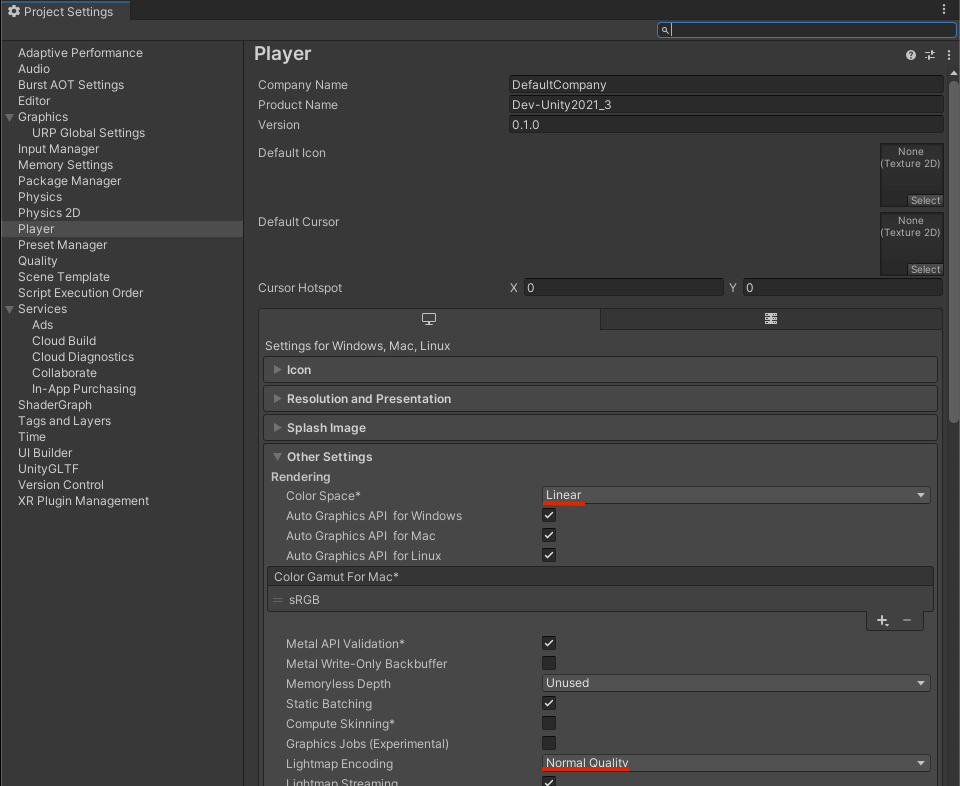
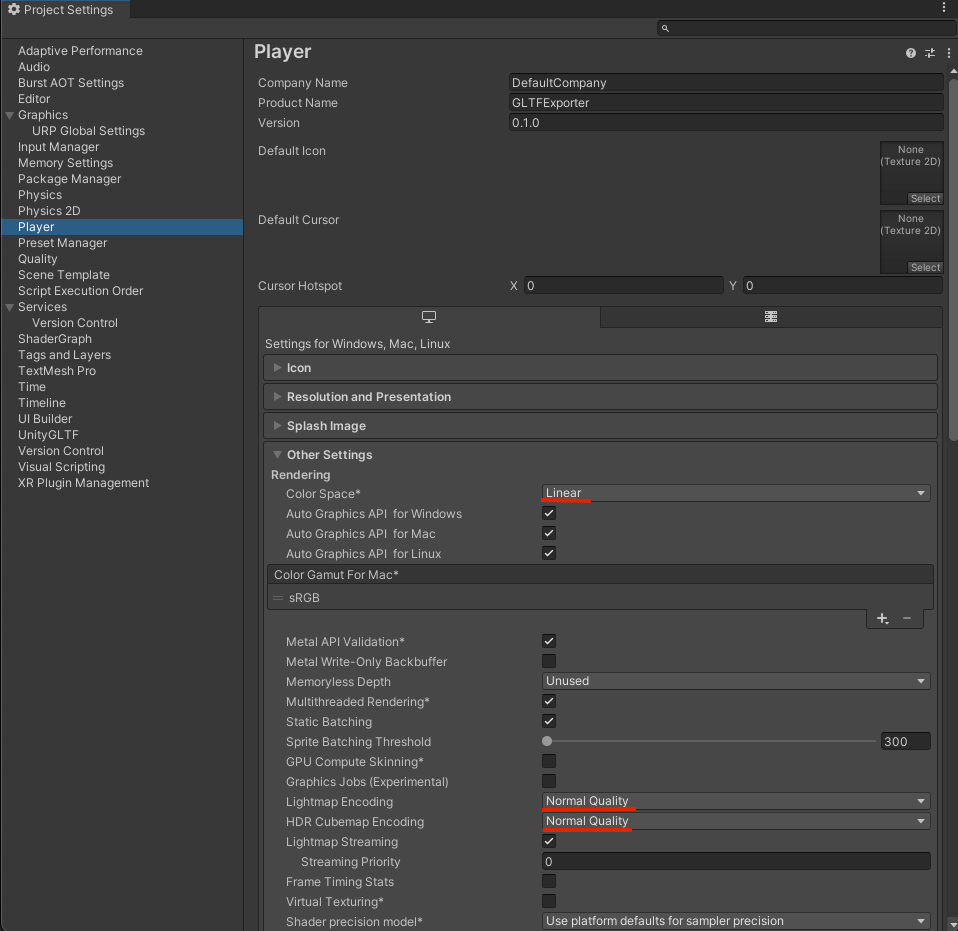
Update docs for Unity 2022

diff --git a/Packages/thirdroom-unity-exporter/README.md b/Packages/thirdroom-unity-exporter/README.md
@@ -6,7 +6,16 @@ Export Third Room scenes from Unity. Powered by [UnityGLTF](https://github.com/p
 
 First you'll need a copy of Unity which can be downloaded [here](https://unity.com/download).
 
-Internally we use Unity 2021.3.17f1 (LTS), Unity versions 2020.3+ should be supported, but we can't make any promises. 2021.3+ would be preferred.
+### Versions
+- **Recommended:** 2022.1.13f1 ([Unity Hub Link](unityhub://2022.1.13f1/22856944e6d2))
+- Supported: 2021.3+
+- Unsupported but potentially compatible: 2020.3+
+
+Unity 2021 does not have support for HDR Cubemaps which we use for reflection probes. If you'd like support for them, use Unity 2022.
+
+### Installation
+
+We recommend first starting with creating a brand new project in Unity Hub.
 
 You should use the Universal Render Pipeline (URP) to maximize compatibility with UnityGLTF.
 

diff --git a/README.md b/README.md
@@ -6,7 +6,16 @@ Export Third Room scenes from Unity. Powered by [UnityGLTF](https://github.com/p
 
 First you'll need a copy of Unity which can be downloaded [here](https://unity.com/download).
 
-Internally we use Unity 2021.3.17f1 (LTS), Unity versions 2020.3+ should be supported, but we can't make any promises. 2021.3+ would be preferred.
+### Versions
+- **Recommended:** 2022.1.13f1 ([Unity Hub Link](unityhub://2022.1.13f1/22856944e6d2))
+- Supported: 2021.3+
+- Unsupported but potentially compatible: 2020.3+
+
+Unity 2021 does not have support for HDR Cubemaps which we use for reflection probes. If you'd like support for them, use Unity 2022.
+
+### Installation
+
+We recommend first starting with creating a brand new project in Unity Hub.
 
 You should use the Universal Render Pipeline (URP) to maximize compatibility with UnityGLTF.
 

diff --git a/Packages/thirdroom-unity-exporter/Documentation~/index.md b/Packages/thirdroom-unity-exporter/Documentation~/index.md
@@ -49,6 +49,7 @@ Whether you're working with an existing scene or starting one from scratch there
 1. Open `Edit > Project Settings...`
 2. Ensure that <kbd>Color Space</kbd> is set to `Linear`
 3. Ensure that <kbd>Lightmap Encoding</kbd> is set to `Normal Quality`
+4. If you're using Unity 2022, ensure that <kbd>HDR Cubemap Encoding</kbd> is set to `Normal Quality`
 
 ![Project Settings](./Images/ProjectSettings.png)
 
